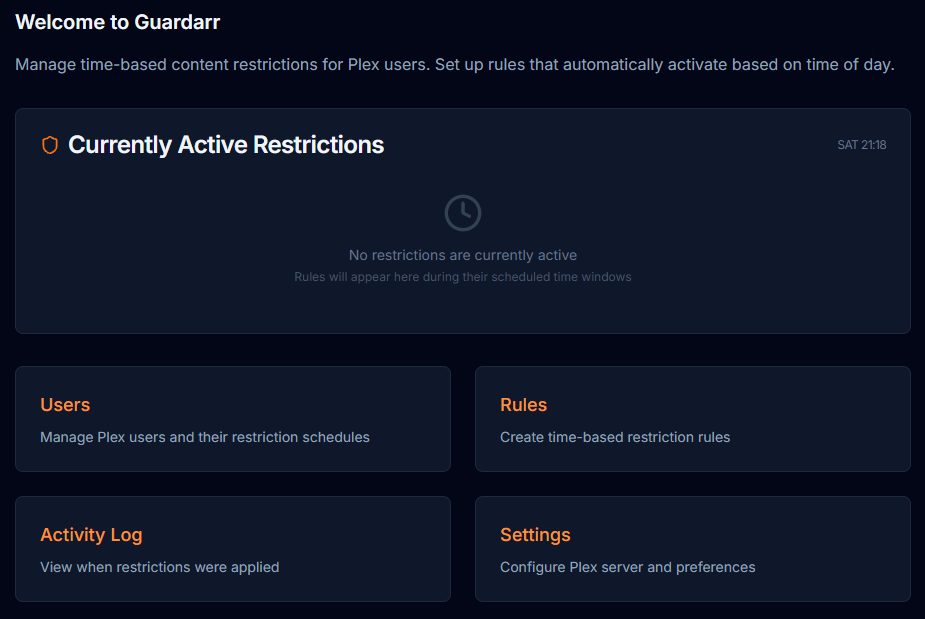
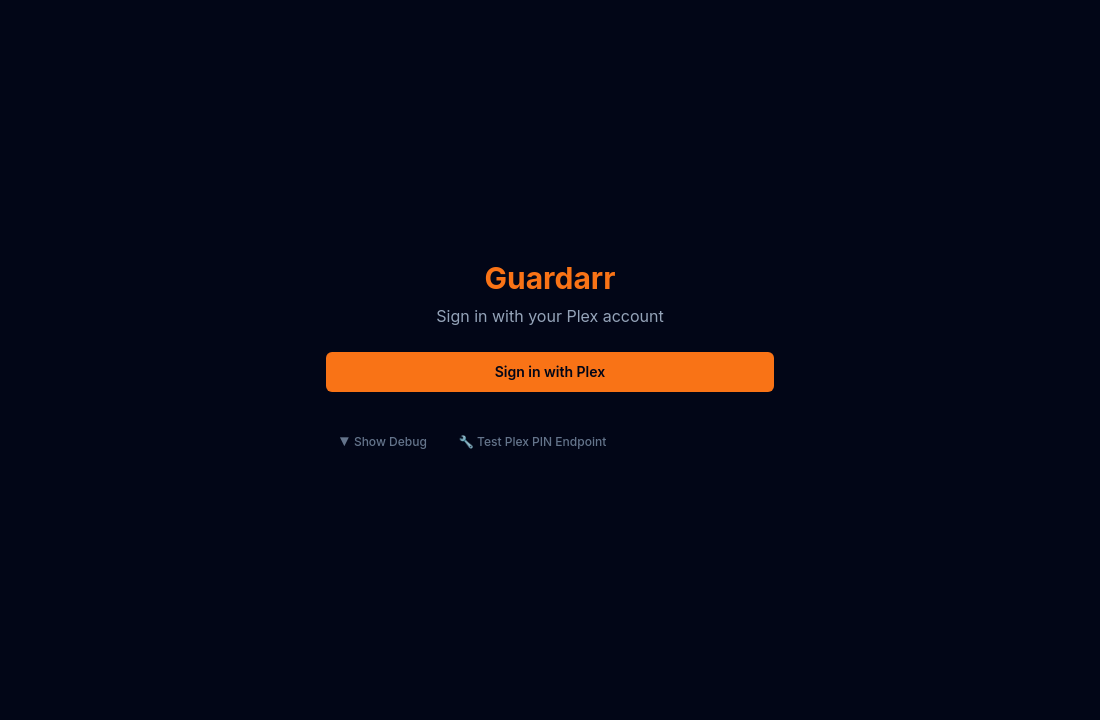
docs: document v1.1.x features + refresh screenshots (#16)
* docs: document v1.1.x feature set in README

Group features (scheduling/rules, content filtering, access & control,
reliability/ops, UI), add presets/bulk/default-rule, parent PIN, per-library
viewer, enforcer health/backups/digest/alerts, auth middleware. Fix stale
tech stack (Next.js 14 + better-sqlite3 + NextAuth, not 15/plex-api) and the
enforcement description (standalone enforcer loop, not container cron).

* docs: refresh screenshots for v1.1.x redesign

Recapture login + rules pages reflecting the chip-based makeover (presets,
allow/block rating chips, one-row day picker, label filters).

---------

diff --git a/README.md b/README.md
@@ -2,18 +2,39 @@
 
 # Guardarr -- Plex doesn't understand bedtime
 
-Time-based content restrictions for Plex Media Server.
+Time-based parental controls for Plex Media Server. Guardarr enforces per-user
+content-rating and label filters on a schedule, so the right restrictions apply
+automatically at the right times — and lift when they should.
 
 ## Features
 
-- **Per-user restriction scheduling** — Set rules that activate automatically
-- **Multiple rules per user** — Weekdays, weekends, custom schedules
-- **Rating filters** — Allow/exclude specific content ratings by time
-- **Label filters** — Plex labels as restriction criteria
-- **Activity logging** — Track when restrictions change
-- **Plex OAuth** — Login with your Plex account
-- **Dark UI** — shadcn/ui with customizable accent colors
+### Scheduling & rules
+- **Per-user restriction scheduling** — rules activate automatically by time window (overnight windows like `20:00 → 06:00` supported)
+- **Multiple rules per user** — weekdays, weekends, custom day/time combinations, ordered by priority
+- **Rule presets** — one-click *Little Kids / Tweens / Teens* starting points you can tweak
+- **Bulk apply** — assign or remove a rule across all managed users at once
+- **Auto-default rule** — automatically apply a chosen rule to new Plex users as they're discovered
 
+### Content filtering
+- **Rating filters** — allow or block specific movie & TV ratings per rule
+- **Block unrated content** — toggle to also exclude NR / "Not Rated" titles
+- **Label filters** — use Plex labels as include/exclude restriction criteria
+
+### Access & control
+- **Parent PIN** — require a PIN to grant temporary bypasses
+- **Per-library access viewer** — read-only view of which Plex libraries each shared user can access
+- **Plex OAuth** — sign in with your Plex account
+
+### Reliability & operations
+- **Enforcer health** — dashboard banner shows last run / last success / consecutive failures / token validity
+- **Token validation** — proactively checks the Plex admin token and surfaces failures instead of silently doing nothing
+- **Daily database backups** — online SQLite backup + WAL checkpoint, last 7 retained
+- **Activity insights** — 7-day rollup of restriction changes, with an optional **weekly digest** to a webhook
+- **Failure alerts** — optional webhook notification on repeated enforcement failures
+- **Authenticated API** — middleware gates all API routes and protected pages behind NextAuth
+
+### UI
+- **Chip-based dark UI** — shadcn/ui + Tailwind, mobile-responsive, customizable accent colors
 
 ## Screenshots
 
@@ -23,20 +44,20 @@ Time-based content restrictions for Plex Media Server.
 
 ## Tech Stack
 
-- Next.js 15 + TypeScript
+- Next.js 14 + React 18 + TypeScript
 - shadcn/ui + Tailwind CSS
-- SQLite (local)
-- Plex API (plex-api npm package)
-- Docker + Docker Compose
+- better-sqlite3 (local SQLite, WAL mode)
+- NextAuth (Plex OAuth, JWT sessions)
+- Standalone enforcer process + Next.js server
+- Docker
 
 ## Quick Start
 
 ```bash
-# Clone and setup
 cd guardarr
 
 cp .env.example .env.local
-# Edit: PLEX_SERVER_URL, PLEX_ADMIN_TOKEN
+# Edit: PLEX_SERVER_URL, PLEX_ADMIN_TOKEN, NEXTAUTH_SECRET, NEXTAUTH_URL
 
 docker-compose up -d --build
 ```
@@ -46,23 +67,39 @@ Access at: http://localhost:4600
 ## Configuration
 
 Required environment variables:
-- `PLEX_SERVER_URL` — Your Plex server URL (e.g., http://192.168.x.x:32400)
-- `PLEX_ADMIN_TOKEN` — Your Plex admin token
-- `NEXTAUTH_SECRET` — Random string for auth encryption
-- `NEXTAUTH_URL` — Your domain (https://guardarr.yourdomain.com)
+- `PLEX_SERVER_URL` — your Plex server URL (e.g., `http://192.168.x.x:32400`)
+- `PLEX_ADMIN_TOKEN` — your Plex admin token (fallback; the token is normally stored in the DB and refreshed on each Plex sign-in)
+- `NEXTAUTH_SECRET` — random string for auth/session encryption
+- `NEXTAUTH_URL` — your domain (e.g., `https://guardarr.yourdomain.com`)
+
+Optional:
+- `ALERT_WEBHOOK_URL` — webhook for enforcement-failure alerts and the weekly digest (also configurable in Settings)
+
+In-app settings:
+- **Plex admin token** — re-paste after a rotation; every Plex sign-in persists the current token to the DB
+- **Parent PIN** — set/clear the bypass PIN (stored hashed)
+- **Default rule** — choose the rule auto-applied to new users
+- **Notifications webhook** — powers failure alerts and the weekly digest
 
 ## Getting Plex Admin Token
 
-1. Sign in to Plex Web app
+Normally you don't need to find this manually — signing in with Plex stores the
+token automatically. If you need it directly:
+
+1. Sign in to the Plex Web app
 2. Open browser DevTools → Network
-3. Look for any request to `plex.tv` 
-4. Find `X-Plex-Token` header value
+3. Look for any request to `plex.tv`
+4. Find the `X-Plex-Token` header value
 
 See: https://support.plex.tv/articles/204059436-finding-an-authentication-token-x-plex-token/
 
 ## Schedule Enforcement
 
-Runs every minute via cron inside container. Checks active rules and applies restrictions to configured users.
+A standalone enforcer process runs every minute. Each cycle it evaluates active
+rules and applies the corresponding content-rating + label restrictions to the
+configured Plex users via the plex.tv API. It self-schedules with capped
+exponential backoff on failure, validates the admin token periodically, records
+its health to the database, and only re-applies a rule when its state changes.
 
 ## License
 
